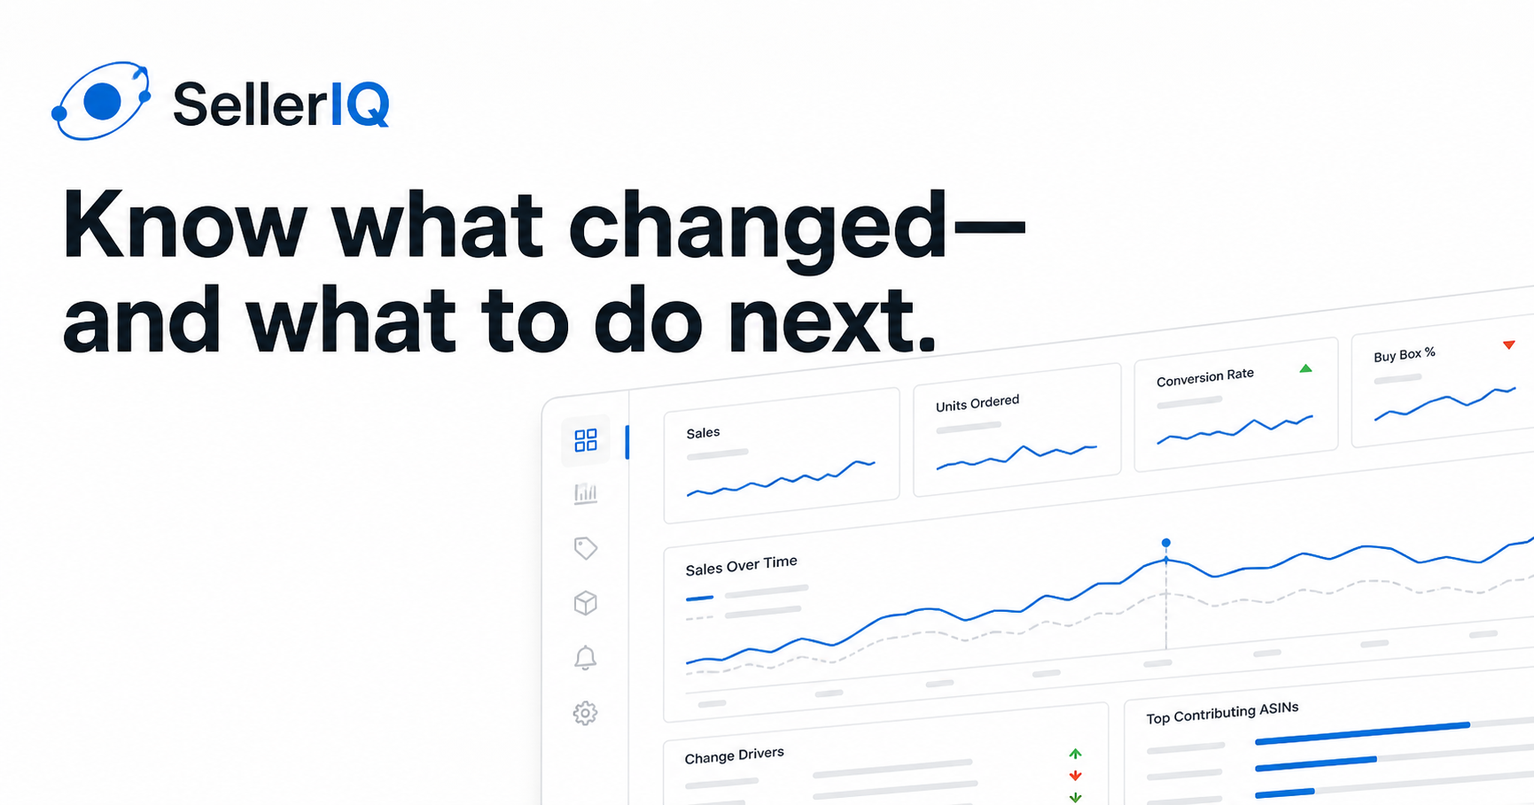
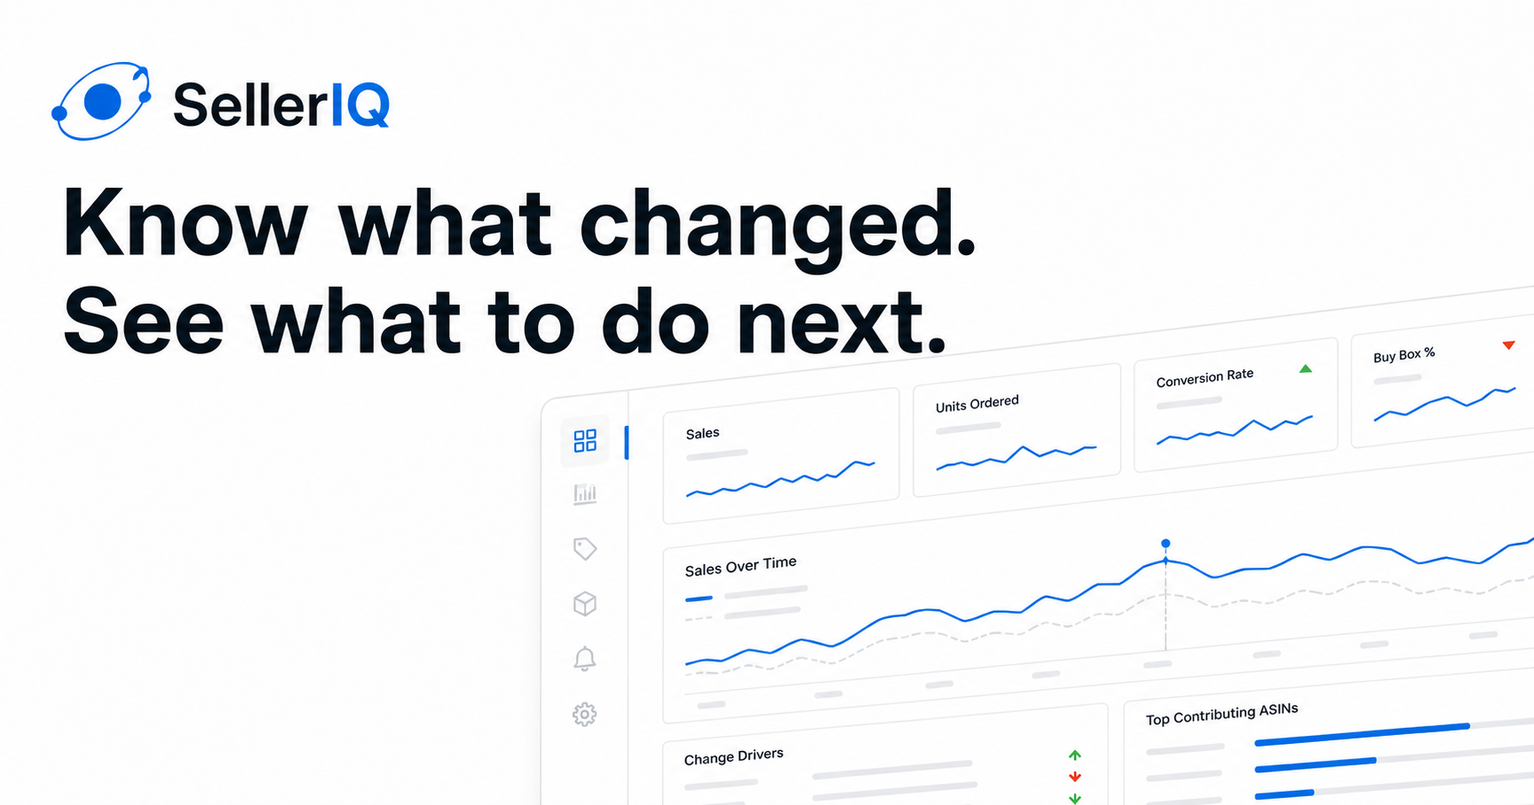
Tighten SellerIQ landing page copy

diff --git a/app/page.tsx b/app/page.tsx
@@ -1,6 +1,6 @@
 import {
-  AlertTriangle, ArrowRight, BarChart3, Boxes, Check, CheckCircle2, CircleDollarSign,
-  FileSpreadsheet, Globe2, LineChart, PackageCheck, Search, ShieldCheck, TrendingDown,
+  AlertTriangle, ArrowRight, BarChart3, Boxes, CheckCircle2, CircleDollarSign,
+  FileSpreadsheet, Globe2, LineChart, Search, ShieldCheck, TrendingDown,
   TrendingUp, Warehouse,
 } from "lucide-react";
 import { WaitlistForm } from "./_components/waitlist-form";
@@ -16,14 +16,14 @@ function SectionIntro({ eyebrow, title, body }: { eyebrow: string; title: string
 function DashboardPreview() {
   const nav = ["Sales Overview", "Product Performance", "Profitability", "Inventory", "Marketplace Compare", "Traffic & Conversion"];
   return (
-    <div className="dashboard-shell" aria-label="Illustration of the SellerIQ Sales Overview">
+    <div className="dashboard-shell" aria-label="SellerIQ Sales Overview preview">
       <aside className="dashboard-sidebar">
         <div className="dashboard-brand"><Mark /><b>SellerIQ</b></div>
         <small>ANALYTICS</small>
         {nav.map((item, index) => <div className={index === 0 ? "dashboard-nav active" : "dashboard-nav"} key={item}><span />{item}</div>)}
       </aside>
       <div className="dashboard-main">
-        <div className="dashboard-heading"><div><b>Sales Overview</b><small>Amazon US + CA · Last 30 days</small></div><span className="range-pill">Last 30 days</span></div>
+        <div className="dashboard-heading"><div><b>Sales Overview</b><small>Amazon US + CA. Last 30 days</small></div><span className="range-pill">Last 30 days</span></div>
         <div className="metric-grid">
           <div><small>ORDERED REVENUE</small><b>$184,620</b><span className="positive"><TrendingUp /> 12.4% vs prior period</span></div>
           <div><small>CONTRIBUTION PROFIT</small><b>$38,715</b><span className="positive"><TrendingUp /> 3.1% vs prior period</span></div>
@@ -33,39 +33,37 @@ function DashboardPreview() {
           <div className="brief-copy"><small>WHAT CHANGED?</small><b>Revenue grew, but margin tightened.</b><p>Growth came mainly from three SKUs in the US marketplace. Advertising and Amazon fees absorbed part of the gain.</p><div className="driver-bars"><span style={{ width: "84%" }} /><span style={{ width: "61%" }} /><span style={{ width: "39%" }} /></div></div>
           <div className="action-card"><span><CheckCircle2 /> Recommended action</span><b>Review ad efficiency on SL-CW079-199</b><p>Sales increased, but contribution margin fell 4.2 percentage points.</p><small>Estimated impact: $1,240 / month</small></div>
         </div>
-        <small className="illustrative">Illustrative data · Interface reflects the current private beta</small>
+        <small className="illustrative">Illustrative data. Interface reflects the current beta.</small>
       </div>
     </div>
   );
 }
 
 const outcomes = [
-  { icon: BarChart3, title: "Know what changed", body: "Compare equal periods and see whether revenue moved because of traffic, conversion, selling price, marketplace, or specific SKUs.", detail: "Prior period, prior year, and percentage-point changes where they belong." },
-  { icon: CircleDollarSign, title: "Know what is profitable", body: "Bring sales, advertising, Amazon fees, refunds, and landed product cost together at the SKU level.", detail: "Profit views clearly disclose missing or incomplete cost periods." },
-  { icon: Warehouse, title: "Know what to reorder", body: "Use days of cover, inbound inventory, supplier lead time, and warehouse stock to plan the next purchase order.", detail: "FBA replenishment and supplier reorder workflows in one operating view." },
+  { icon: BarChart3, title: "Explain revenue changes", body: "See which SKUs, marketplaces, traffic, conversion, or price shifts moved revenue." },
+  { icon: CircleDollarSign, title: "Protect contribution margin", body: "See when ads, fees, refunds, or product costs turn sales growth into profit decline." },
+  { icon: Warehouse, title: "Order inventory with context", body: "Use cover, inbound stock, lead time, and warehouse inventory to set the next purchase quantity." },
 ];
 
 const workflow = [
-  { number: "01", title: "Business outcome", body: "Start with revenue, contribution profit, margin, units, and the health signals that matter." },
-  { number: "02", title: "What changed?", body: "See the SKUs, marketplaces, traffic, conversion, and price movements behind the result." },
-  { number: "03", title: "What needs action?", body: "Review prioritized exceptions with the evidence and expected impact attached." },
+  { number: "01", title: "See the result", body: "Start with revenue, contribution profit, margin, and units." },
+  { number: "02", title: "Find the cause", body: "Trace the change to the responsible SKUs and operating metrics." },
+  { number: "03", title: "Review the action", body: "Focus on the exceptions with the largest estimated impact." },
 ];
 
 const capabilities = [
-  { icon: Search, title: "SKU-level diagnostics", body: "Move from the company result to the product that caused it." },
-  { icon: Globe2, title: "US + Canada together", body: "Compare marketplaces without losing the local context." },
-  { icon: LineChart, title: "Fair comparisons", body: "Equal elapsed periods prevent misleading WTD, MTD, QTD, and YTD deltas." },
-  { icon: PackageCheck, title: "Replenishment planning", body: "See cover, inbound units, reorder timing, and suggested quantities." },
-  { icon: Boxes, title: "Warehouse-aware ordering", body: "Factor stock across production, transit, FBA, and warehouse uploads." },
-  { icon: ShieldCheck, title: "Evidence-first actions", body: "Recommendations explain the signal instead of asking you to trust a black box." },
+  { icon: Search, title: "Find the responsible SKU", body: "Move from the company result to the product that caused it." },
+  { icon: Globe2, title: "Separate US and Canada", body: "Compare marketplace performance without mixing local signals." },
+  { icon: LineChart, title: "Avoid false comparisons", body: "Compare equal elapsed periods for WTD, MTD, QTD, and YTD." },
+  { icon: Boxes, title: "Plan the next order", body: "Factor in FBA, inbound, warehouse stock, lead time, and days of cover." },
 ];
 
 const faqs = [
-  ["Who is the private beta for?", "Amazon brand owners and operators who manage meaningful SKU complexity across the US, Canada, or both—and are tired of reconciling decisions across reports and spreadsheets."],
-  ["Does SellerIQ make changes in Seller Central?", "No. The current beta is a decision-support product. It does not automatically change listings, prices, advertising, or inventory."],
-  ["How does onboarding work today?", "Beta onboarding is guided. We help establish the data inputs and confirm that the numbers reconcile before you rely on the dashboard."],
-  ["Is profitability included?", "Yes, when the required advertising, Amazon fee, refund, and landed-cost periods are complete. SellerIQ shows data-completeness warnings instead of presenting an unverified profit number as final."],
-  ["What does private beta cost?", "Pricing is still being validated with beta users. Joining the list is free and does not require a credit card or commitment."],
+  ["Who is the private beta for?", "Amazon brand owners and operators managing multiple SKUs across the US, Canada, or both."],
+  ["Does SellerIQ make changes in Seller Central?", "No. SellerIQ supports decisions. It does not change listings, prices, ads, or inventory."],
+  ["How does onboarding work?", "We establish the supported data inputs and reconcile the numbers with you before you use the dashboard."],
+  ["Is profitability included?", "Yes. Profit appears only when the required ad, fee, refund, and landed-cost periods are complete."],
+  ["What does the beta cost?", "Joining is free. We are validating paid pricing with beta users."],
 ];
 
 export default function Home() {
@@ -75,7 +73,7 @@ export default function Home() {
       <header className="site-header">
         <a href="#top" className="site-logo" aria-label="SellerIQ home"><Mark /><b>SellerIQ</b></a>
         <nav aria-label="Main navigation"><a href="#product">Product</a><a href="#how-it-works">How it works</a><a href="#beta">Private beta</a><a href="#faq">FAQ</a></nav>
-        <div className="header-actions">{appUrl ? <a className="login-link" href={appUrl}>Beta login</a> : null}<a className="button button-small" href="#join">Join the beta <ArrowRight /></a></div>
+        <div className="header-actions">{appUrl ? <a className="login-link" href={appUrl}>Beta login</a> : null}<a className="button button-small" href="#join">Join the private beta <ArrowRight /></a></div>
       </header>
 
       <main id="main">
@@ -83,66 +81,61 @@ export default function Home() {
           <div className="hero-grid">
             <div className="hero-copy">
               <span className="eyebrow"><span />Private beta for Amazon operators</span>
-              <h1>Know what changed in your Amazon business—and what to do next.</h1>
-              <p>SellerIQ brings sales, profitability, traffic, Buy Box, and inventory into one decision-ready view across Amazon US and Canada.</p>
+              <h1>Know what changed in your Amazon business. See what to do next.</h1>
+              <p>SellerIQ helps Amazon operators managing US and Canada find the SKUs driving revenue, margin, and inventory risk.</p>
               <WaitlistForm idPrefix="hero" location="hero" compact />
-              <p className="form-note">No credit card. No sales spam. Just beta access and occasional product updates.</p>
+              <p className="form-note">Join free. No credit card.</p>
             </div>
-            <div className="hero-proof"><span>Built inside a real Amazon operation</span><span>Amazon US + Canada</span><span>Evidence behind every action</span></div>
           </div>
           <DashboardPreview />
         </section>
 
-        <section className="proof-strip" aria-label="Product principles">
-          <div><b>Daily-grain</b><span>seller data</span></div><div><b>SKU-level</b><span>decisions</span></div><div><b>Equal-period</b><span>comparisons</span></div><div><b>Transparent</b><span>data freshness</span></div>
-        </section>
-
         <section id="product" className="section outcomes-section">
-          <SectionIntro eyebrow="One operating picture" title="From reporting to a decision." body="SellerIQ is designed around the questions an Amazon operator asks every morning—not around another wall of charts." />
-          <div className="outcome-grid">{outcomes.map((item) => <article className="outcome-card" key={item.title}><div className="icon-box"><item.icon /></div><h3>{item.title}</h3><p>{item.body}</p><small><Check />{item.detail}</small></article>)}</div>
+          <SectionIntro eyebrow="One operating picture" title="Find the cause before you open another report." body="Start with the business result, then trace it to the SKU and metric that moved." />
+          <div className="outcome-grid">{outcomes.map((item) => <article className="outcome-card" key={item.title}><div className="icon-box"><item.icon /></div><h3>{item.title}</h3><p>{item.body}</p></article>)}</div>
         </section>
 
         <section className="section workflow-section">
-          <div className="workflow-copy"><span className="eyebrow light"><span />The daily briefing</span><h2>A hierarchy built for operators, not spectators.</h2><p>The first screen tells you the outcome. The next layer tells you why. The action feed tells you where to focus.</p><a className="inline-link" href="#join">Help shape the beta <ArrowRight /></a></div>
+          <div className="workflow-copy"><span className="eyebrow light"><span />The daily briefing</span><h2>Get from result to action.</h2><p>SellerIQ organizes each review in the order you make decisions.</p></div>
           <div className="workflow-list">{workflow.map((item) => <div key={item.number}><span>{item.number}</span><div><h3>{item.title}</h3><p>{item.body}</p></div></div>)}</div>
         </section>
 
         <section className="section capabilities-section">
-          <SectionIntro eyebrow="What is live" title="The connected workflows sellers actually need." body="Sales, profit, traffic, Buy Box, and inventory stay separate enough to be trustworthy—but connected enough to explain the business." />
+          <SectionIntro eyebrow="What is live" title="Make decisions without hiding the inputs." body="Every conclusion stays tied to the source metric and marketplace behind it." />
           <div className="capability-grid">{capabilities.map((item) => <article key={item.title}><item.icon /><h3>{item.title}</h3><p>{item.body}</p></article>)}</div>
         </section>
 
         <section id="how-it-works" className="section how-section">
-          <SectionIntro eyebrow="How it works today" title="Guided onboarding. Clean inputs. Clear decisions." body="The beta is intentionally hands-on while we learn which workflows create the most value for serious Amazon operators." />
+          <SectionIntro eyebrow="How it works" title="Start with numbers you can trust." body="Guided onboarding confirms the inputs before you use SellerIQ to make decisions." />
           <div className="steps">
-            <article><span>1</span><FileSpreadsheet /><h3>Establish the inputs</h3><p>We help bring together the seller, advertising, profitability, and inventory data the beta supports.</p></article>
-            <article><span>2</span><ShieldCheck /><h3>Confirm the numbers</h3><p>Freshness and completeness are visible. We reconcile before asking you to act on the output.</p></article>
-            <article><span>3</span><BarChart3 /><h3>Run the business</h3><p>Use the overview, product diagnostics, profitability, and replenishment views to decide what happens next.</p></article>
+            <article><span>1</span><FileSpreadsheet /><h3>Bring in the inputs</h3><p>Connect the seller, advertising, profitability, and inventory data the beta supports.</p></article>
+            <article><span>2</span><ShieldCheck /><h3>Reconcile the periods</h3><p>Confirm freshness and completeness before relying on profit or comparison metrics.</p></article>
+            <article><span>3</span><BarChart3 /><h3>Review the decisions</h3><p>Use the overview, diagnostics, and replenishment views to choose the next action.</p></article>
           </div>
         </section>
 
         <section id="beta" className="section beta-section">
-          <div className="beta-heading"><span className="eyebrow"><span />Private-beta transparency</span><h2>Built far enough to use.<br />Early enough to influence.</h2></div>
+          <div className="beta-heading"><span className="eyebrow"><span />Private beta</span><h2>Use the current product.<br />Help set the priorities.</h2></div>
           <div className="beta-columns">
-            <div><h3><CheckCircle2 />Available in the current beta</h3><ul><li>Sales overview and fair period comparisons</li><li>SKU and marketplace contribution drivers</li><li>Traffic, conversion, and Buy Box diagnostics</li><li>Profitability with data-completeness controls</li><li>FBA replenishment and supplier reorder planning</li></ul></div>
-            <div><h3><AlertTriangle />What we are still validating</h3><ul><li>The fastest onboarding path for new sellers</li><li>The most useful action ranking and impact estimates</li><li>Which integrations should come next</li><li>Packaging and willingness to pay</li><li>Where automation should—and should not—exist</li></ul></div>
+            <div><h3><CheckCircle2 />Available now</h3><ul><li>Sales overview with fair comparisons</li><li>SKU and marketplace drivers</li><li>Profitability with completeness controls</li><li>Replenishment and reorder planning</li></ul></div>
+            <div><h3><AlertTriangle />Still being validated</h3><ul><li>Onboarding speed</li><li>Action ranking and impact estimates</li><li>Additional integrations</li><li>Pricing</li></ul></div>
           </div>
         </section>
 
         <section className="section founder-section">
           <div className="founder-mark"><Mark /></div>
-          <blockquote>“SellerIQ started as the operating view we wanted for our own Amazon business: one place that could explain the result, show the evidence, and point to the next decision.”</blockquote>
+          <blockquote>“We built SellerIQ to explain the result, show the evidence, and point to the next decision in our own Amazon operation.”</blockquote>
           <div><b>Built by Amazon operators</b><span>Inside Merkury Innovations</span></div>
         </section>
 
         <section id="faq" className="section faq-section">
-          <SectionIntro eyebrow="Questions, answered" title="A clear beta beats a vague promise." body="What you should know before joining." />
+          <SectionIntro eyebrow="Private beta details" title="What to expect before you join." body="Current access, onboarding, and pricing in plain terms." />
           <div className="faq-list">{faqs.map(([question, answer]) => <details key={question}><summary>{question}<span>+</span></summary><p>{answer}</p></details>)}</div>
         </section>
 
         <section id="join" className="final-cta">
-          <div className="final-copy"><span className="eyebrow light"><span />Private beta</span><h2>Build the operating system you wish Amazon gave you.</h2><p>Join the waitlist, tell us where your current workflow breaks, and help decide what SellerIQ becomes.</p><div className="cta-assurances"><span><Check />Free to join</span><span><Check />No credit card</span><span><Check />Opt out anytime</span></div></div>
-          <div className="signup-panel"><h3>Request private-beta access</h3><p>Start with your email. The rest is optional.</p><WaitlistForm idPrefix="final" location="final" /></div>
+          <div className="final-copy"><span className="eyebrow light"><span />Private beta</span><h2>See if SellerIQ fits your operation.</h2><p>Join the private beta with your work email.</p></div>
+          <div className="signup-panel"><h3>Join the private beta</h3><p>Share your email. The follow-up questions are optional.</p><WaitlistForm idPrefix="final" location="final" /></div>
         </section>
       </main>
 

diff --git a/app/_components/waitlist-form.tsx b/app/_components/waitlist-form.tsx
@@ -12,8 +12,8 @@ type WaitlistFormProps = {
 
 type FormStatus = "idle" | "submitting" | "qualified" | "complete" | "error";
 
-const revenueOptions = ["Under $50k / month", "$50k–$250k / month", "$250k–$1M / month", "$1M+ / month"];
-const skuOptions = ["Under 25", "25–100", "101–500", "500+"];
+const revenueOptions = ["Under $50k / month", "$50k to $250k / month", "$250k to $1M / month", "$1M+ / month"];
+const skuOptions = ["Under 25", "25 to 100", "101 to 500", "500+"];
 const painOptions = ["Profit clarity", "Inventory planning", "Traffic & conversion", "Reconciling reports", "Other"];
 
 function getAttribution() {
@@ -89,7 +89,7 @@ export function WaitlistForm({ idPrefix, location, compact = false }: WaitlistFo
     return (
       <div className="signup-success" role="status">
         <span><Check aria-hidden="true" /></span>
-        <div><b>You’re on the list.</b><p>We’ll reach out as private-beta capacity opens.</p></div>
+        <div><b>You’re on the list.</b><p>We’ll contact you when a beta spot opens.</p></div>
       </div>
     );
   }
@@ -97,15 +97,15 @@ export function WaitlistForm({ idPrefix, location, compact = false }: WaitlistFo
   if (phase === "qualification") {
     return (
       <form className="qualification-form" onSubmit={handleQualification}>
-        <div className="qualification-head"><span><Check aria-hidden="true" /></span><div><b>Your spot is saved.</b><p>Four optional details help us prioritize the right beta sellers.</p></div></div>
+        <div className="qualification-head"><span><Check aria-hidden="true" /></span><div><b>Your email is saved.</b><p>These optional details help us prioritize beta access.</p></div></div>
         <div className="qualification-grid">
           <label htmlFor={`${idPrefix}-revenue`}>Monthly Amazon revenue<select id={`${idPrefix}-revenue`} name="revenueBand" defaultValue=""><option value="">Prefer not to say</option>{revenueOptions.map((option) => <option key={option}>{option}</option>)}</select></label>
           <label htmlFor={`${idPrefix}-skus`}>Active SKU count<select id={`${idPrefix}-skus`} name="skuBand" defaultValue=""><option value="">Prefer not to say</option>{skuOptions.map((option) => <option key={option}>{option}</option>)}</select></label>
           <label htmlFor={`${idPrefix}-pain`}>Biggest pain today<select id={`${idPrefix}-pain`} name="primaryPain" defaultValue=""><option value="">Choose one</option>{painOptions.map((option) => <option key={option}>{option}</option>)}</select></label>
-          <label htmlFor={`${idPrefix}-tools`}>Tools you use now<input id={`${idPrefix}-tools`} name="currentTools" placeholder="Sellerboard, spreadsheets…" maxLength={160} /></label>
+          <label htmlFor={`${idPrefix}-tools`}>Tools you use now<input id={`${idPrefix}-tools`} name="currentTools" placeholder="Sellerboard, spreadsheets" maxLength={160} /></label>
         </div>
         <fieldset><legend>Marketplaces</legend><label><input type="checkbox" name="marketplaces" value="US" /> US</label><label><input type="checkbox" name="marketplaces" value="CA" /> Canada</label><label><input type="checkbox" name="marketplaces" value="Other" /> Other</label></fieldset>
-        <div className="qualification-actions"><button className="button" disabled={status === "submitting"} type="submit">{status === "submitting" ? <><LoaderCircle className="spin" /> Saving</> : <>Help shape SellerIQ <ArrowRight /></>}</button><button className="text-button" type="button" onClick={() => setStatus("complete")}>Skip for now</button></div>
+        <div className="qualification-actions"><button className="button" disabled={status === "submitting"} type="submit">{status === "submitting" ? <><LoaderCircle className="spin" /> Saving</> : <>Save details <ArrowRight /></>}</button><button className="text-button" type="button" onClick={() => setStatus("complete")}>Skip</button></div>
         <p className="form-message" aria-live="polite">{message}</p>
       </form>
     );
@@ -116,7 +116,7 @@ export function WaitlistForm({ idPrefix, location, compact = false }: WaitlistFo
       <label className="sr-only" htmlFor={`${idPrefix}-email`}>Work email</label>
       <input id={`${idPrefix}-email`} name="email" type="email" autoComplete="email" placeholder="you@company.com" value={email} onChange={(event) => setEmail(event.target.value)} required maxLength={254} />
       <label className="honeypot" aria-hidden="true">Company website<input name="companyWebsite" tabIndex={-1} autoComplete="off" /></label>
-      <button className="button" disabled={status === "submitting"} type="submit">{status === "submitting" ? <><LoaderCircle className="spin" /> Joining</> : <>Join the private beta <ArrowRight /></>}</button>
+      <button className="button" disabled={status === "submitting"} type="submit">{status === "submitting" ? <><LoaderCircle className="spin" /> Joining</> : <>Join private beta <ArrowRight /></>}</button>
       <p className="form-message" aria-live="polite">{message}</p>
     </form>
   );

diff --git a/app/layout.tsx b/app/layout.tsx
@@ -8,13 +8,13 @@ const siteUrl = process.env.NEXT_PUBLIC_SITE_URL || "https://selleriq-site.verce
 
 export const metadata: Metadata = {
   metadataBase: new URL(siteUrl),
-  title: { default: "SellerIQ — Decision-ready Amazon analytics", template: "%s | SellerIQ" },
-  description: "See what changed across sales, profitability, traffic, Buy Box, and inventory—and where to act next. Join the SellerIQ private beta.",
+  title: { default: "SellerIQ | Amazon performance, profit, and inventory", template: "%s | SellerIQ" },
+  description: "See why revenue and margin moved, identify the SKUs responsible, and plan the next inventory decision across Amazon US and Canada.",
   keywords: ["Amazon seller analytics", "Amazon profitability", "FBA replenishment", "Amazon inventory planning", "SellerIQ"],
   authors: [{ name: "Merkury Innovations" }], creator: "Merkury Innovations",
   alternates: { canonical: "/" },
-  openGraph: { title: "SellerIQ — Know what changed and what to do next", description: "Decision-ready sales, profitability, traffic, Buy Box, and inventory analytics for Amazon operators.", url: "/", siteName: "SellerIQ", images: [{ url: "/og.png", width: 1200, height: 630, alt: "SellerIQ — Know what changed and what to do next" }], type: "website" },
-  twitter: { card: "summary_large_image", title: "SellerIQ — Know what changed and what to do next", description: "Decision-ready Amazon analytics for serious operators.", images: ["/og.png"] },
+  openGraph: { title: "SellerIQ | See what changed. Decide what to do next.", description: "Find the SKUs driving revenue, margin, and inventory risk across Amazon US and Canada.", url: "/", siteName: "SellerIQ", images: [{ url: "/og.png", width: 1200, height: 630, alt: "SellerIQ dashboard with the headline Know what changed. See what to do next." }], type: "website" },
+  twitter: { card: "summary_large_image", title: "SellerIQ | See what changed. Decide what to do next.", description: "Find the SKUs driving revenue, margin, and inventory risk across Amazon US and Canada.", images: ["/og.png"] },
 };
 
 export const viewport: Viewport = { themeColor: "#ffffff", colorScheme: "light" };

diff --git a/app/landing.css b/app/landing.css
@@ -34,7 +34,8 @@
 .workflow-list > div > span { color:#8fc6f2; font-family:var(--font-geist-mono); font-size:12px; }
 .workflow-list h3 { margin:0; font-size:19px; }.workflow-list p { margin:8px 0 0; color:#bfc5cb; font-size:14px; line-height:1.6; }
 .capabilities-section { background:var(--canvas); }
-.capability-grid { display:grid; grid-template-columns:repeat(3,1fr); margin-top:52px; border-top:1px solid #d6d6d6; border-left:1px solid #d6d6d6; }
+.hero-grid { grid-template-columns:minmax(0,790px); gap:0; }
+.capability-grid { display:grid; grid-template-columns:repeat(2,1fr); margin-top:52px; border-top:1px solid #d6d6d6; border-left:1px solid #d6d6d6; }
 .capability-grid article { padding:30px; background:#fff; border-right:1px solid #d6d6d6; border-bottom:1px solid #d6d6d6; }
 .capability-grid article > svg { width:21px; height:21px; color:var(--blue); }.capability-grid h3 { margin-top:18px; font-size:17px; }
 .how-section { background:#fff; }
